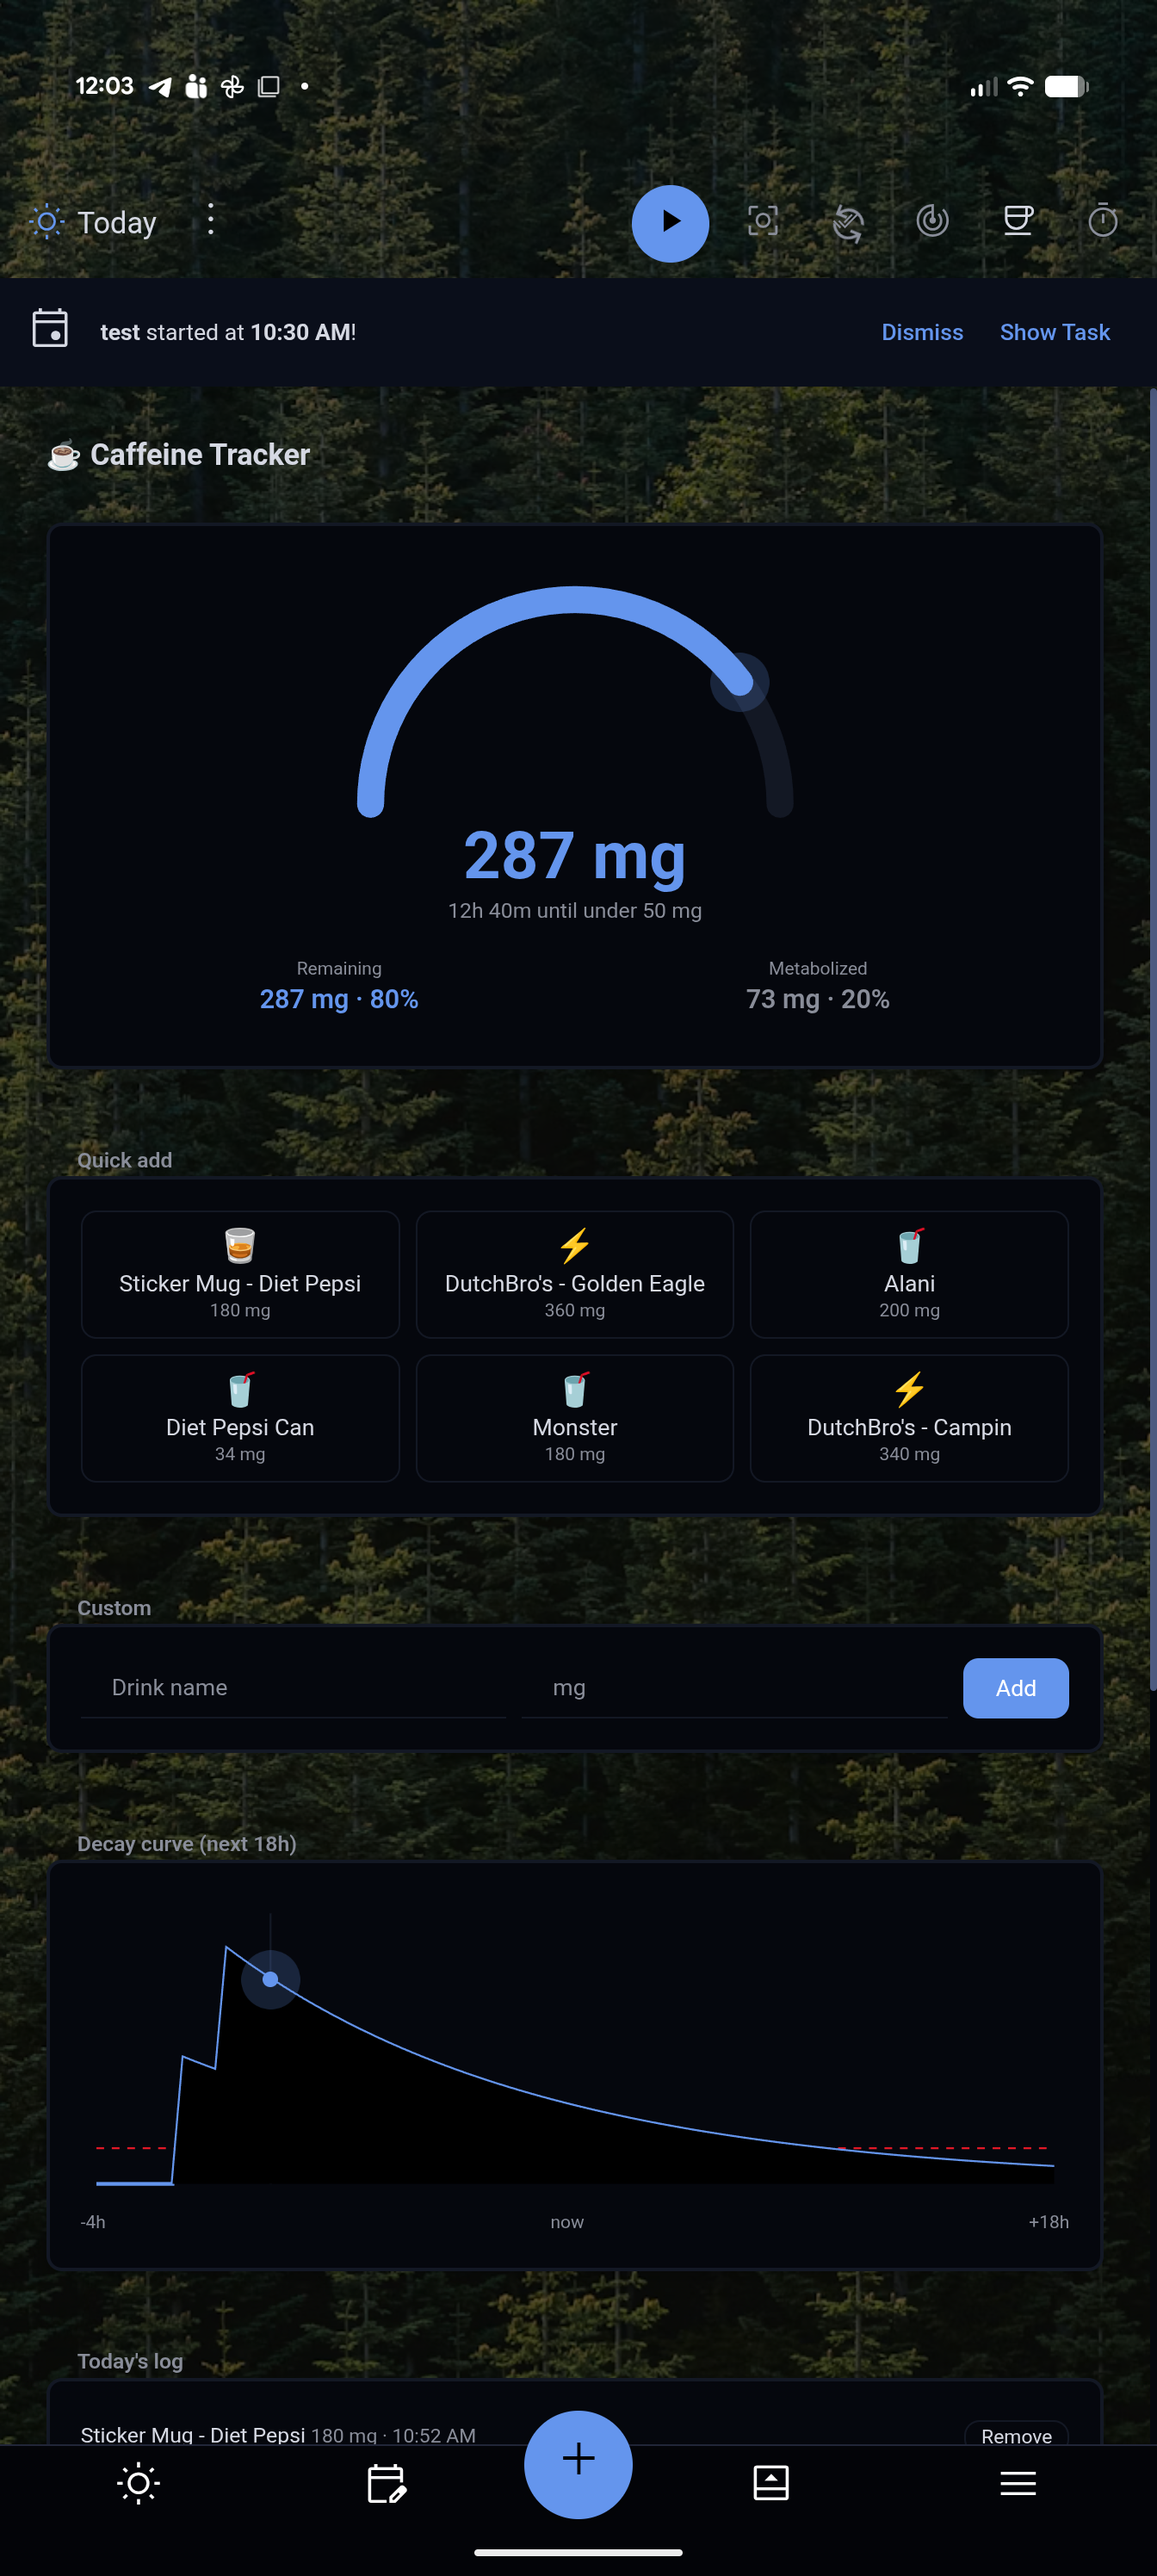
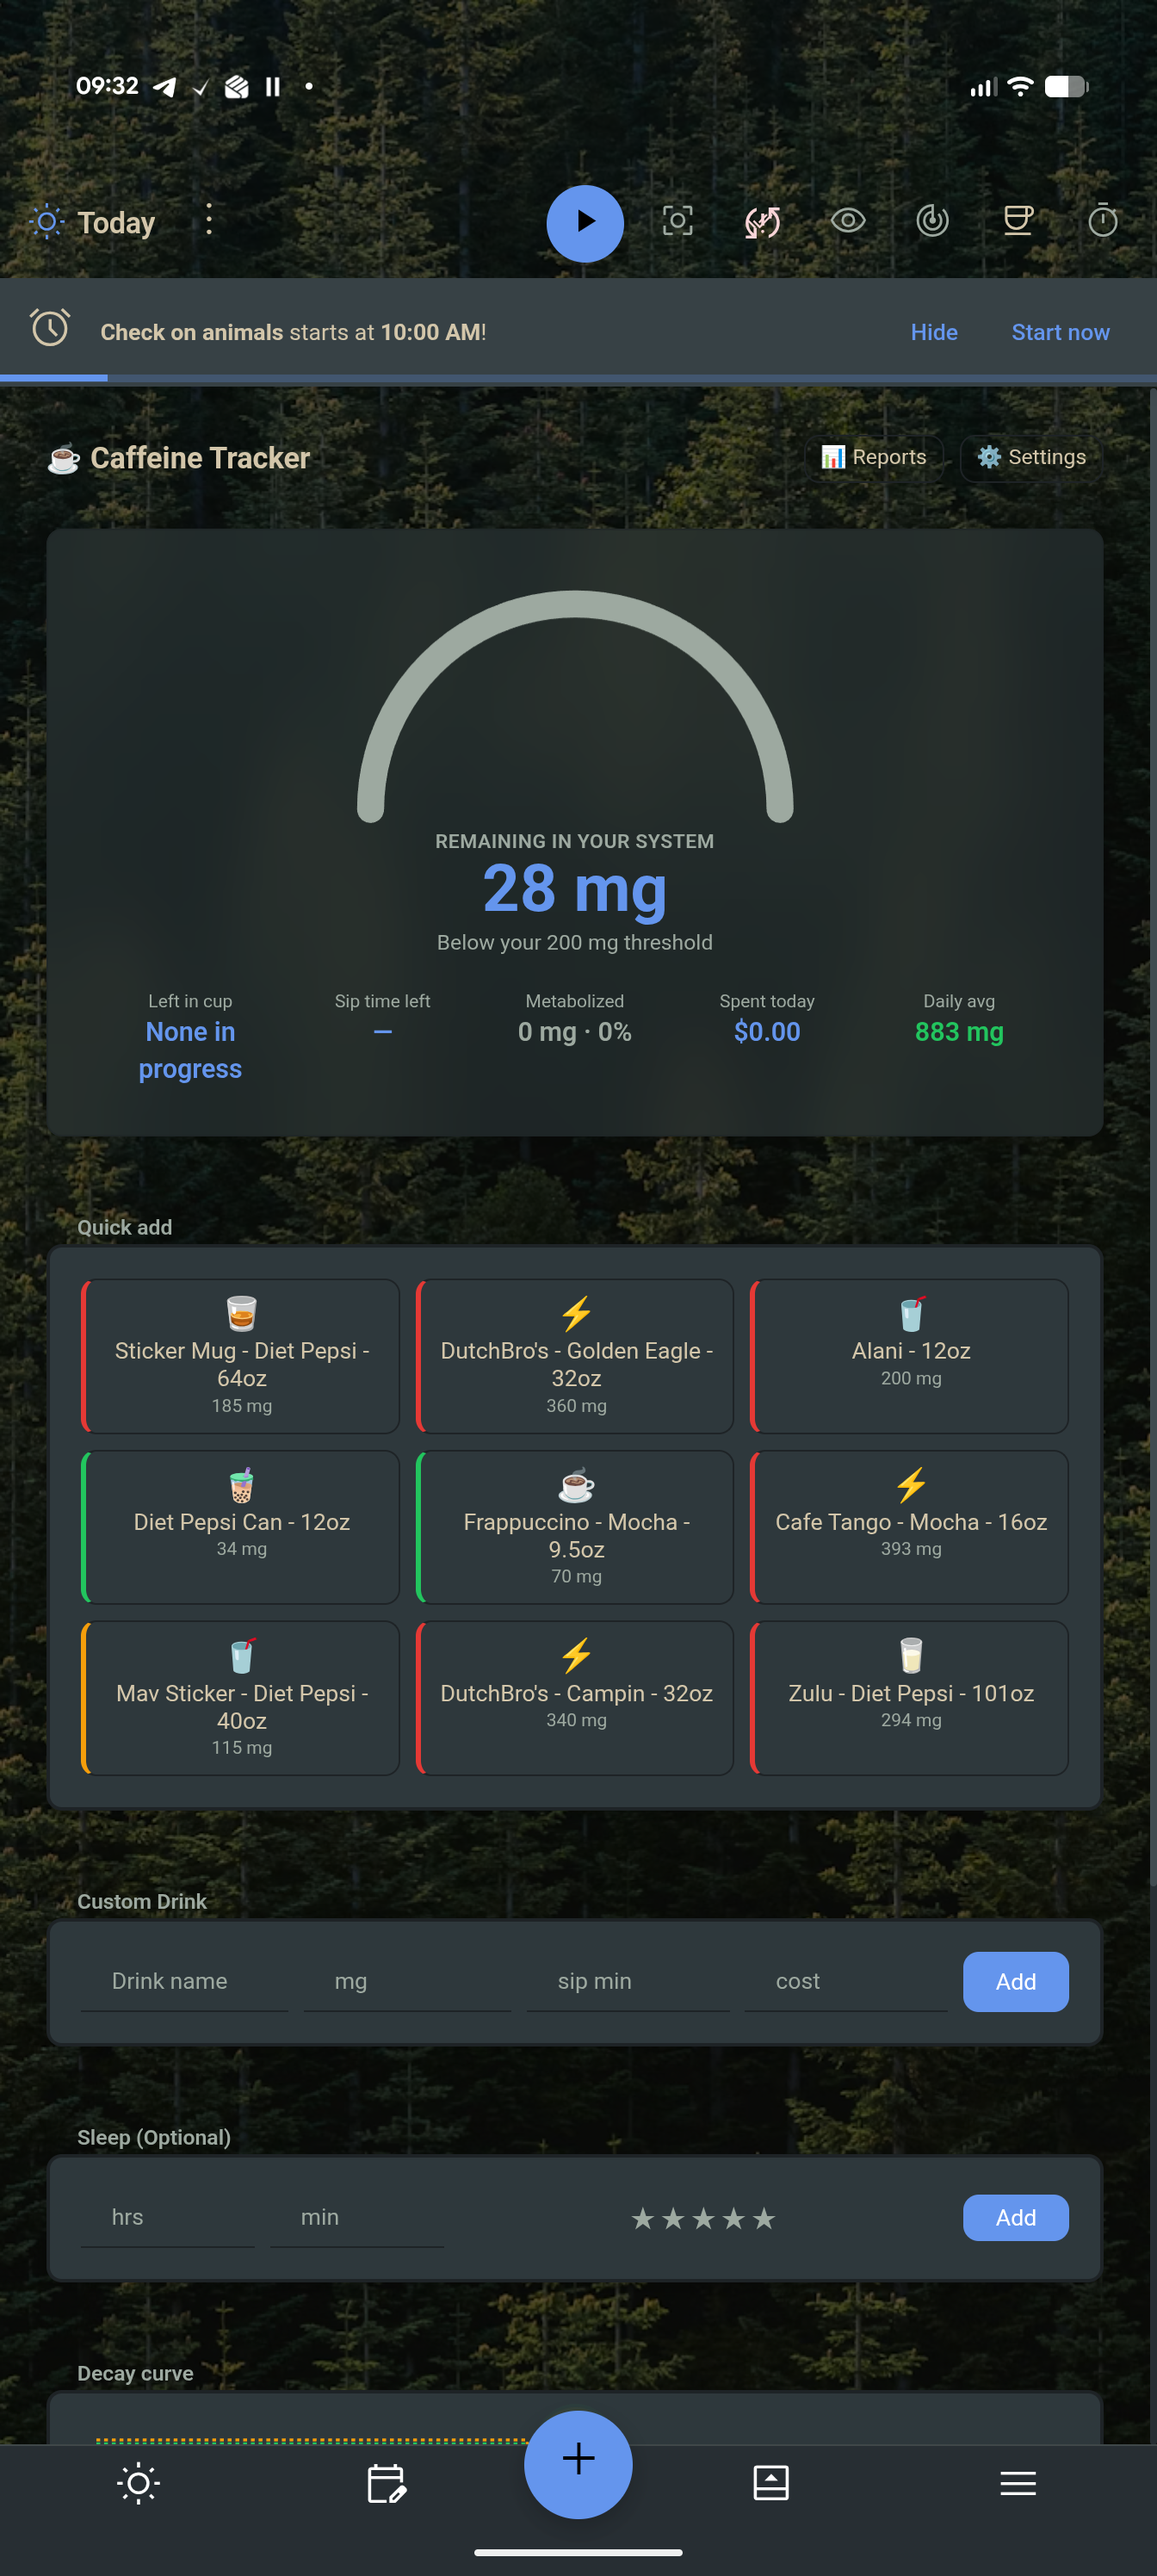
update mobile screenshots for 1.52.1

diff --git a/README.md b/README.md
@@ -10,9 +10,9 @@ caffeine level decay using a half-life model, and its effects on productivity th
   <img src="Images/desktop1.png" alt="Desktop view: decay chart, log, and settings" width="49%" />
 </p>
 <p>
-  <img src="Images/mobile.png" alt="Mobile view: gauge, quick add, and decay chart" width="31%" />
-  <img src="Images/mobile_settings.png" alt="Mobile view: Settings &amp; drinks overlay" width="31%" />
-  <img src="Images/mobile_reports.png" alt="Mobile view: Reports overlay with Caffeine impact charts" width="31%" />
+  <img src="Images/mobile.png" alt="Mobile view: gauge with Spent today and Daily avg, quick add, and custom drink entry with cost" width="31%" />
+  <img src="Images/mobile_settings.png" alt="Mobile view: Settings &amp; drinks overlay with drink costs and backup/restore" width="31%" />
+  <img src="Images/mobile_reports.png" alt="Mobile view: Reports summary with sleep, mg, and cost per day" width="31%" />
 </p>
 
 ## Features
